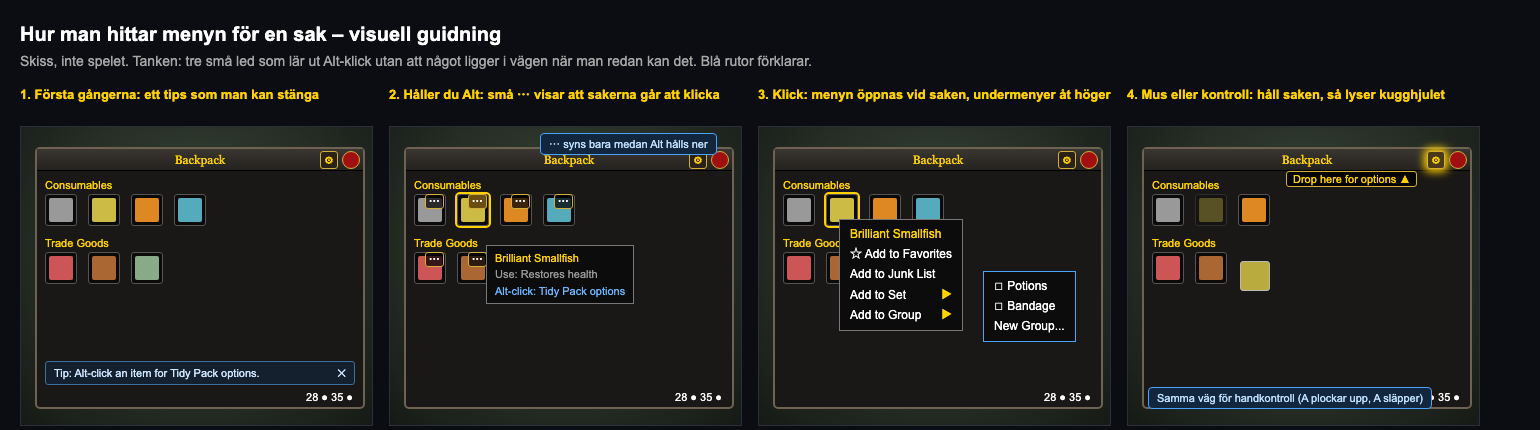
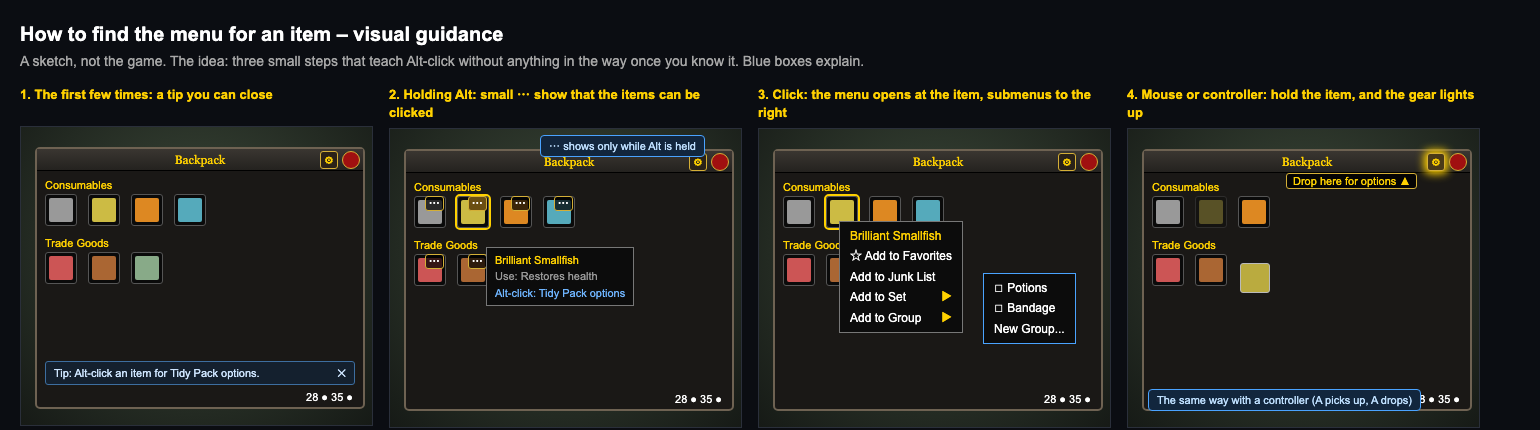
Translate .design/sketch-item-menu to English (#7)

diff --git a/.design/sketch-item-menu.html b/.design/sketch-item-menu.html
@@ -1,4 +1,4 @@
-<!DOCTYPE html><html><head><meta charset="utf-8"><title>Tidy Pack – skiss: menyn för en sak</title>
+<!DOCTYPE html><html><head><meta charset="utf-8"><title>Tidy Pack – sketch: the menu for an item</title>
 <style>
 *{box-sizing:border-box}body{margin:0;padding:20px;background:#0b0d12;color:#d8d8d8;font:14px/1.4 Arial,sans-serif;width:1500px}
 h1{font-size:20px;margin:0 0 4px;color:#fff}.n{color:#a8a8a8;margin:0 0 14px;max-width:1300px}
@@ -25,34 +25,34 @@ h1{font-size:20px;margin:0 0 4px;color:#fff}.n{color:#a8a8a8;margin:0 0 14px;max
 .call{position:absolute;background:#12263d;border:1px solid #4aa3ff;color:#bfe0ff;font:11px/1.3 Arial;padding:3px 8px;border-radius:4px;z-index:8;white-space:nowrap}
 .cur{position:absolute;width:30px;height:30px;border:1px solid #ccc;background:#c44;border-radius:3px;opacity:.9;z-index:7}
 </style></head><body>
-<h1>Hur man hittar menyn för en sak – visuell guidning</h1>
-<p class="n">Skiss, inte spelet. Tanken: tre små led som lär ut Alt-klick utan att något ligger i vägen när man redan kan det. Blå rutor förklarar.</p>
+<h1>How to find the menu for an item – visual guidance</h1>
+<p class="n">A sketch, not the game. The idea: three small steps that teach Alt-click without anything in the way once you know it. Blue boxes explain.</p>
 <div class="row">
 
-<div class="col"><h2>1. Första gångerna: ett tips som man kan stänga</h2><div class="scr"><div class="bag"><div class="t">Backpack</div><div class="g">⚙</div><div class="x"></div>
+<div class="col"><h2>1. The first few times: a tip you can close</h2><div class="scr"><div class="bag"><div class="t">Backpack</div><div class="g">⚙</div><div class="x"></div>
 <div class="hd">Consumables</div><span class="it"><i style="background:#999"></i></span><span class="it"><i style="background:#cb4"></i></span><span class="it"><i style="background:#d82"></i></span><span class="it"><i style="background:#5ab"></i></span>
 <div class="hd">Trade Goods</div><span class="it"><i style="background:#c55"></i></span><span class="it"><i style="background:#a63"></i></span><span class="it"><i style="background:#8a8"></i></span>
 <div class="strip"><span>Tip: Alt-click an item for Tidy Pack options.</span><span>✕</span></div><div class="ft">28 ● 35 ●</div></div>
 <div class="call" style="left:20px;top:238px;display:none"></div></div></div>
 
-<div class="col"><h2>2. Håller du Alt: små ⋯ visar att sakerna går att klicka</h2><div class="scr"><div class="bag"><div class="t">Backpack</div><div class="g">⚙</div><div class="x"></div>
+<div class="col"><h2>2. Holding Alt: small ⋯ show that the items can be clicked</h2><div class="scr"><div class="bag"><div class="t">Backpack</div><div class="g">⚙</div><div class="x"></div>
 <div class="hd">Consumables</div><span class="it"><i style="background:#999"></i><u>⋯</u></span><span class="it hov"><i style="background:#cb4"></i><u style="background:#6a4e12">⋯</u></span><span class="it"><i style="background:#d82"></i><u>⋯</u></span><span class="it"><i style="background:#5ab"></i><u>⋯</u></span>
 <div class="hd">Trade Goods</div><span class="it"><i style="background:#c55"></i><u>⋯</u></span><span class="it"><i style="background:#a63"></i><u>⋯</u></span><span class="it"><i style="background:#8a8"></i><u>⋯</u></span>
 <div class="ft">28 ● 35 ●</div></div>
 <div class="tip" style="left:96px;top:118px"><b class="y">Brilliant Smallfish</b><br><span class="gy">Use: Restores health</span><br><span class="bl">Alt-click: Tidy Pack options</span></div>
-<div class="call" style="left:150px;top:6px">⋯ syns bara medan Alt hålls ner</div></div></div>
+<div class="call" style="left:150px;top:6px">⋯ shows only while Alt is held</div></div></div>
 
-<div class="col"><h2>3. Klick: menyn öppnas vid saken, undermenyer åt höger</h2><div class="scr"><div class="bag"><div class="t">Backpack</div><div class="g">⚙</div><div class="x"></div>
+<div class="col"><h2>3. Click: the menu opens at the item, submenus to the right</h2><div class="scr"><div class="bag"><div class="t">Backpack</div><div class="g">⚙</div><div class="x"></div>
 <div class="hd">Consumables</div><span class="it"><i style="background:#999"></i></span><span class="it hov"><i style="background:#cb4"></i></span><span class="it"><i style="background:#d82"></i></span><span class="it"><i style="background:#5ab"></i></span>
 <div class="hd">Trade Goods</div><span class="it"><i style="background:#c55"></i></span><span class="it"><i style="background:#a63"></i></span><span class="it"><i style="background:#8a8"></i></span><div class="ft">28 ● 35 ●</div></div>
 <div class="m" style="left:80px;top:92px"><b>Brilliant Smallfish</b>☆ Add to Favorites<br>Add to Junk List<div class="a">Add to Set<i>▶</i></div><div class="a">Add to Group<i>▶</i></div></div>
 <div class="m sub" style="left:224px;top:144px">☐ Potions<br>☐ Bandage<br>New Group...</div></div></div>
 
-<div class="col"><h2>4. Mus eller kontroll: håll saken, så lyser kugghjulet</h2><div class="scr"><div class="bag"><div class="t">Backpack</div><div class="g glow">⚙</div><div class="x"></div>
+<div class="col"><h2>4. Mouse or controller: hold the item, and the gear lights up</h2><div class="scr"><div class="bag"><div class="t">Backpack</div><div class="g glow">⚙</div><div class="x"></div>
 <div class="hd">Consumables</div><span class="it"><i style="background:#999"></i></span><span class="it" style="opacity:.35"><i style="background:#cb4"></i></span><span class="it"><i style="background:#d82"></i></span>
 <div class="hd">Trade Goods</div><span class="it"><i style="background:#c55"></i></span><span class="it"><i style="background:#a63"></i></span><div class="ft">28 ● 35 ●</div></div>
 <div class="lab" style="left:158px;top:44px">Drop here for options ▲</div>
 <div class="cur" style="left:112px;top:134px;background:#cb4"></div>
-<div class="call" style="left:20px;top:260px">Samma väg för handkontroll (A plockar upp, A släpper)</div></div></div>
+<div class="call" style="left:20px;top:260px">The same way with a controller (A picks up, A drops)</div></div></div>
 
 </div></body></html>
